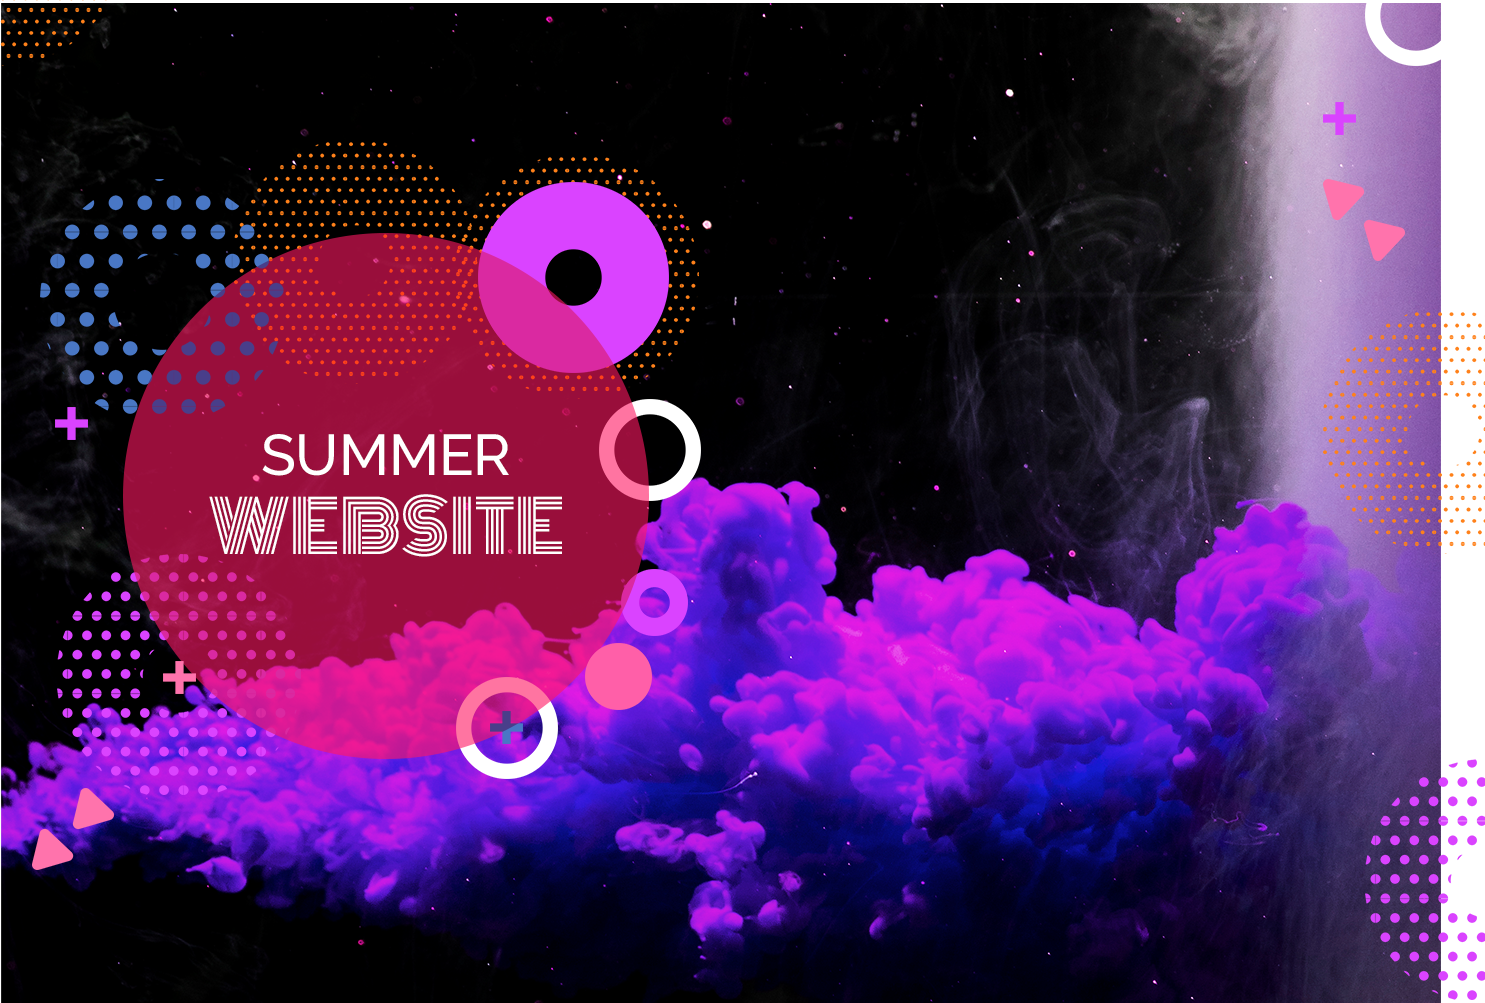
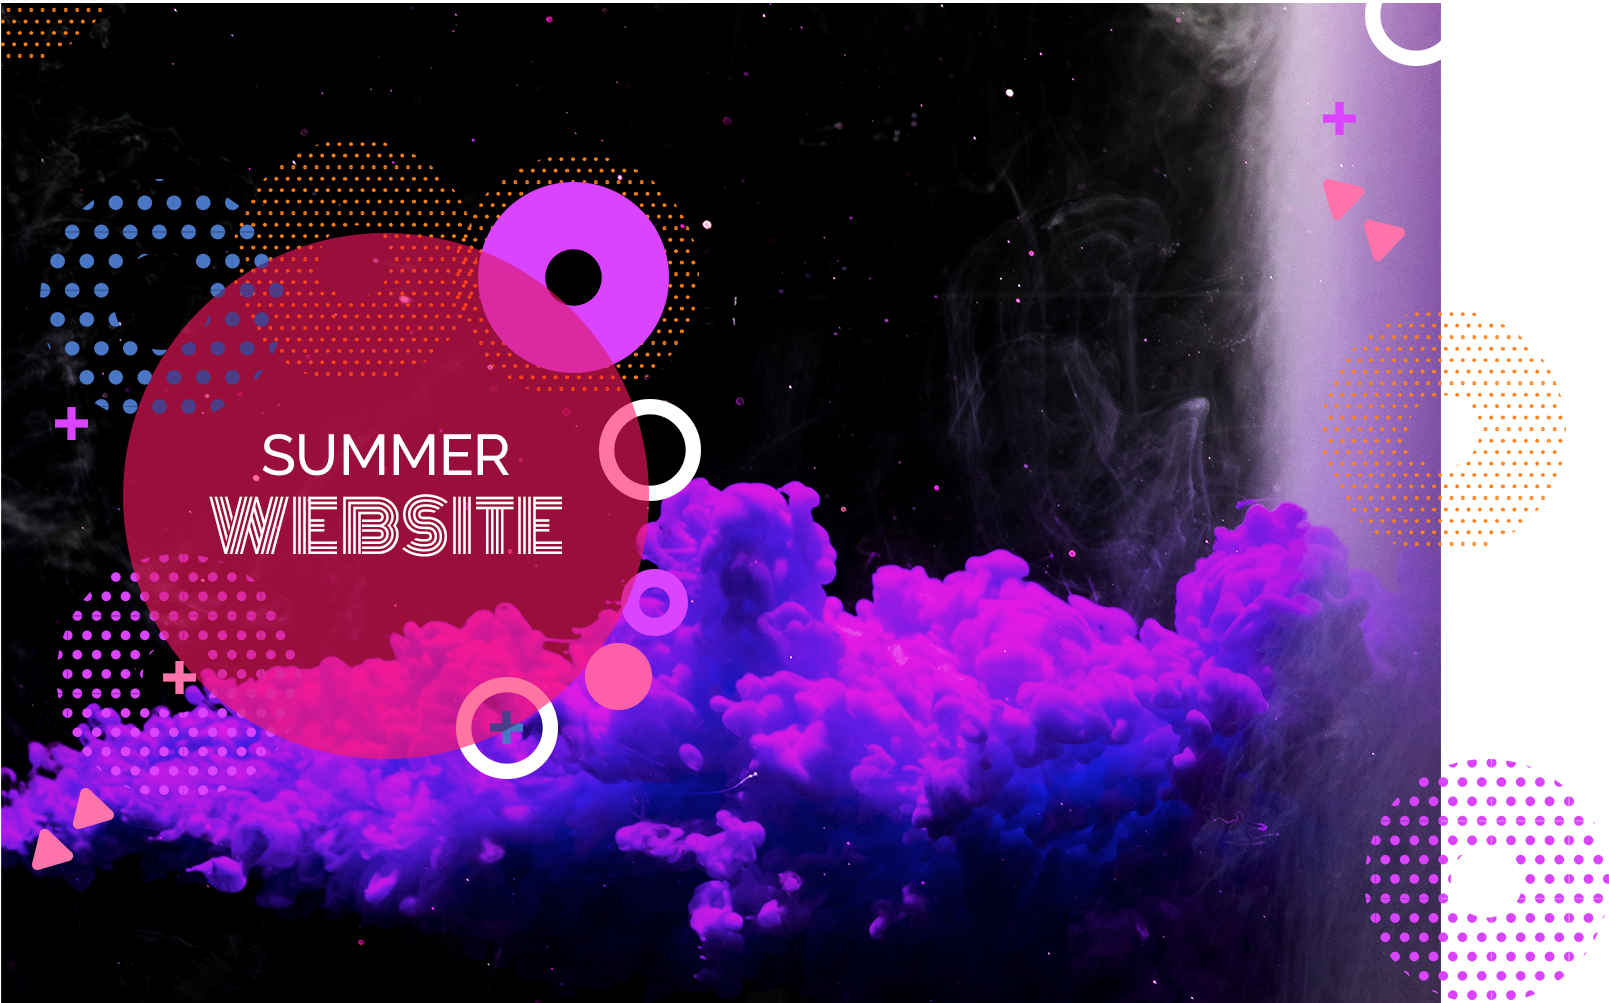
change

diff --git a/css/style.css b/css/style.css
@@ -100,6 +100,8 @@ body{
 /*START new-item*/
 .new-item-block{
     background-image: url(/img/new-item-bg.png);
+    max-width: 1440px;
+    width: 100%;
     }
 .new-item-block .block-item{
     margin: 0 auto;
@@ -148,6 +150,8 @@ body{
 }
 .company .item-block{
     background-image: url(/img/company-bg.png);
+    max-width: 1440px;
+    width: 100%;
    
 }
 .company .item-block h6{
@@ -183,7 +187,7 @@ body{
     margin-left: 0px;
 }
 .bg-after-company img{
-max-width: 1440px;
+
 width: 100%;
 }
 /*END company*/
@@ -226,7 +230,6 @@ width: 100%;
 
 /*START FIRE*/
 .fire .fire-img img{
-    max-width: 1440px;
     width: 100%;
     padding-bottom: 70px;
 }
@@ -293,7 +296,7 @@ width: 100%;
 .number{
    background-image: url(/img/number-bg.png);
    max-width: 1440px;
-   width: 100%;
+     width: 100%;
 }
 .number .number-block h5{
     font-family: 'Releway-SemiBold', sans-serif;
@@ -461,10 +464,7 @@ width: 100%;
 /*max-width: 300px*/
 @media only screen and (max-width: 300px){
 
-/*.header-navigation{
-    background-image: none;
-    
-    }*/
+
 .header-navigation h5{
     font-size: 19px;
     padding-left: 0px;

diff --git a/index.html b/index.html
@@ -37,7 +37,7 @@
             <div class="header-text">
                 <h4>FULL TEMPLATE</h4>
                 <div class="line">
-
+                    <hr>
                 </div>
                 <p>Lorem ipsum dolor sit amet, consectetur<br>
                     adipisicing elit, sed do eiusmod tempor<br>
@@ -198,7 +198,7 @@
                     et dolore magna aliqua. Ut enim ad minim veniam, quis
                 </p>
                 <div class="line">
-
+                    <hr>
                 </div>
             </div>
 
@@ -227,7 +227,7 @@
         </div>
         <div class="container pink-fire">
             <div class="line">
-
+                <hr>
             </div>
             <p>“</p>
             <h6>Lorem ipsum dolor sit amet, consectetur adipisicing elit, sed do eiusmod tempor<br>
